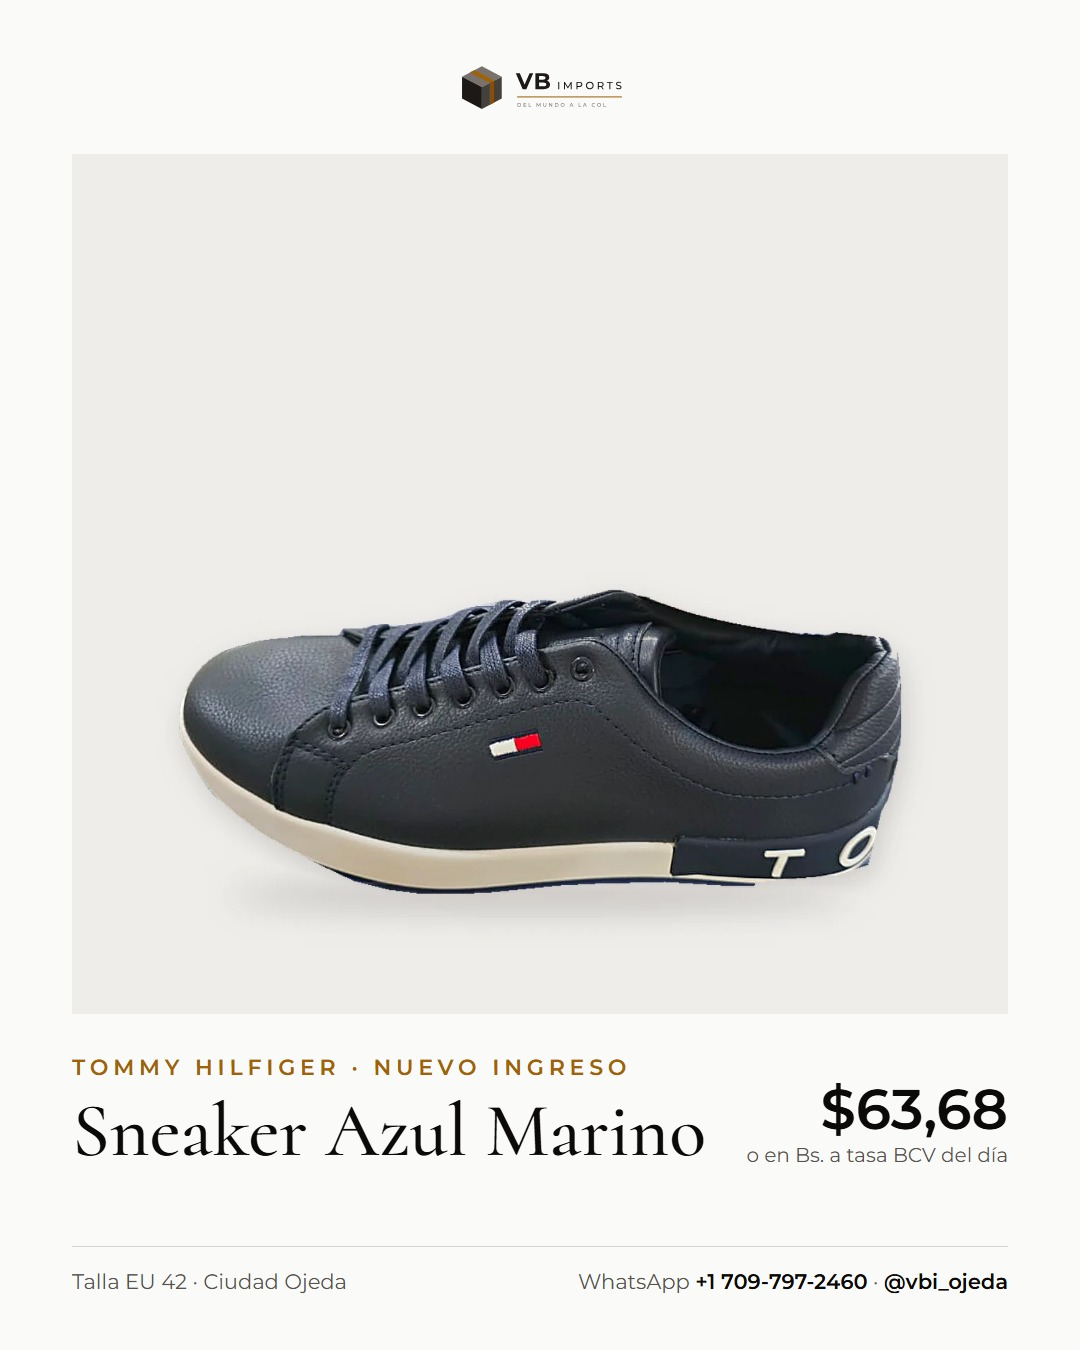
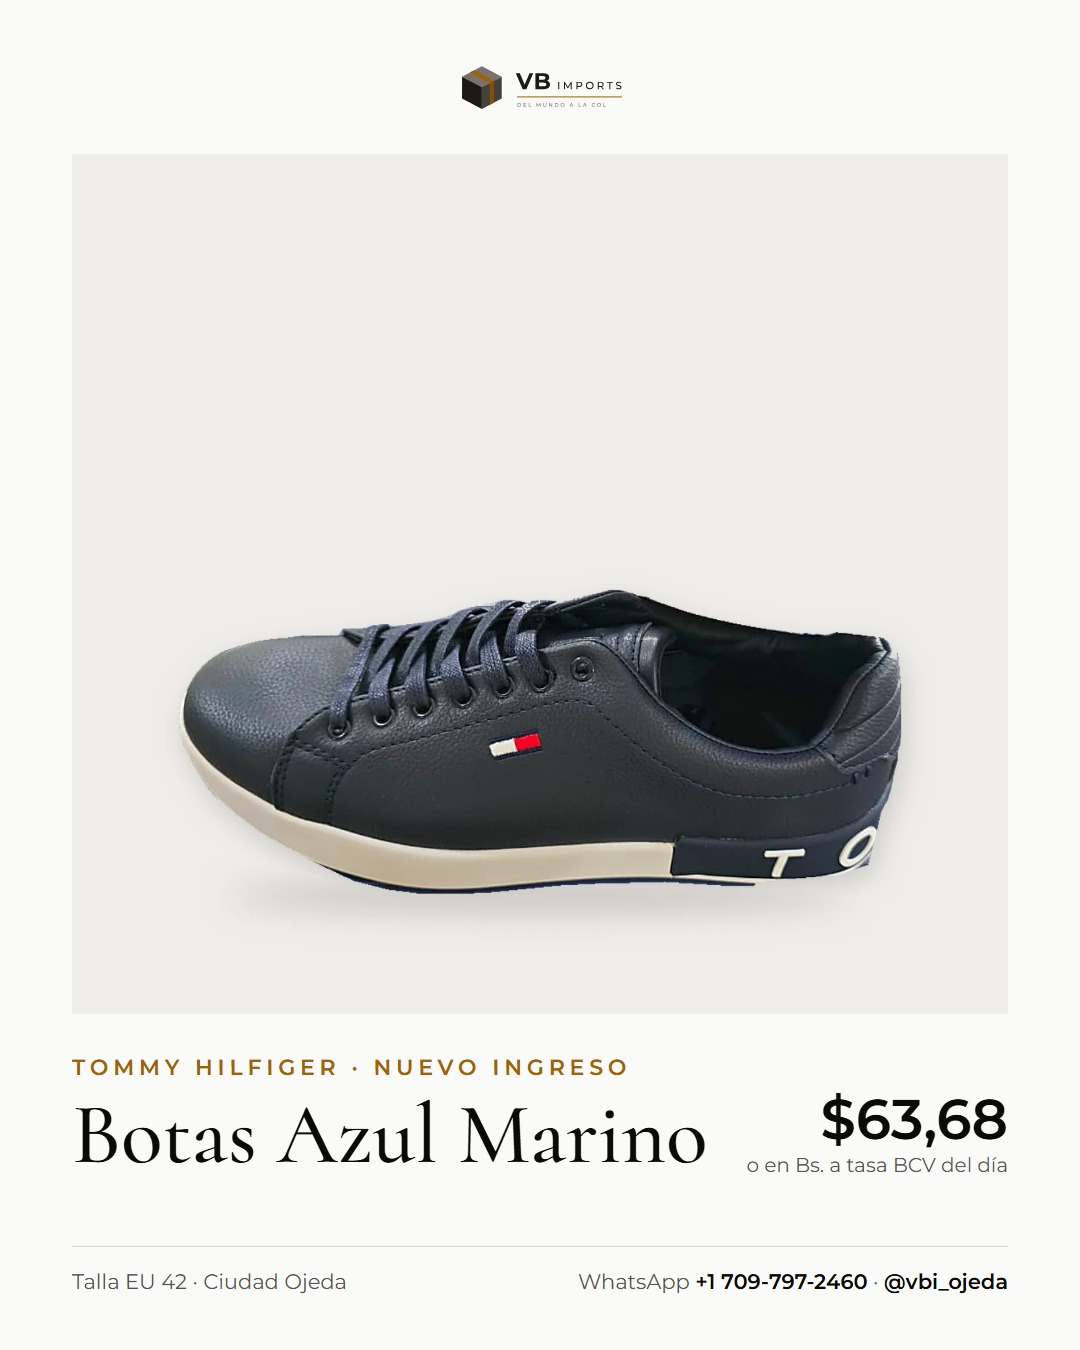
Publicaciones: "botas", sin métodos de pago y sin marca repetida
Los textos ya no muestran los métodos de pago, usan #BotasVenezuela #Botas y
no repiten la marca cuando el nombre la trae (Air Jordan 3). Las imágenes de
los 4 Tommy salen con sus nombres nuevos.

Changed region(s): [[0.0611, 0.8089, 0.6722, 0.8711], [0.7028, 0.8089, 0.9472, 0.8711]]

diff --git a/marketing/instagram/textos.md b/marketing/instagram/textos.md
@@ -13,11 +13,10 @@ $63,68 IVA incluido · o en Bs. a tasa BCV del día
 Un solo par, talla EU 42.
 
 Ya está en Ciudad Ojeda: te lo llevamos a domicilio o nos vemos en un punto de encuentro. Envíos a todo el país.
-Pagos: Pago Móvil, transferencia, dólares en efectivo, Zelle y Binance.
 
 Pídelo por WhatsApp al +1 709-797-2460 o desde el enlace de la biografía.
 
-#CiudadOjeda #Ojeda #Zulia #CostaOriental #Lagunillas #Cabimas #SneakersVenezuela #Sneakers #Casual
+#CiudadOjeda #Ojeda #Zulia #CostaOriental #Lagunillas #Cabimas #BotasVenezuela #Botas #Casual
 ```
 
 ## 02 · Jordan Spizike Low Gris y Negro
@@ -30,11 +29,10 @@ $87,37 IVA incluido · o en Bs. a tasa BCV del día
 Un solo par, talla EU 44.
 
 Ya está en Ciudad Ojeda: te lo llevamos a domicilio o nos vemos en un punto de encuentro. Envíos a todo el país.
-Pagos: Pago Móvil, transferencia, dólares en efectivo, Zelle y Binance.
 
 Pídelo por WhatsApp al +1 709-797-2460 o desde el enlace de la biografía.
 
-#CiudadOjeda #Ojeda #Zulia #CostaOriental #Lagunillas #Cabimas #SneakersVenezuela #Sneakers #Basketball
+#CiudadOjeda #Ojeda #Zulia #CostaOriental #Lagunillas #Cabimas #BotasVenezuela #Botas #Basketball
 ```
 
 ## 03 · Estilo On Cloudmonster Gris Claro
@@ -47,11 +45,10 @@ $74,26 IVA incluido · o en Bs. a tasa BCV del día
 Un solo par, talla EU 43.
 
 Ya está en Ciudad Ojeda: te lo llevamos a domicilio o nos vemos en un punto de encuentro. Envíos a todo el país.
-Pagos: Pago Móvil, transferencia, dólares en efectivo, Zelle y Binance.
 
 Pídelo por WhatsApp al +1 709-797-2460 o desde el enlace de la biografía.
 
-#CiudadOjeda #Ojeda #Zulia #CostaOriental #Lagunillas #Cabimas #SneakersVenezuela #Sneakers #Running
+#CiudadOjeda #Ojeda #Zulia #CostaOriental #Lagunillas #Cabimas #BotasVenezuela #Botas #Running
 ```
 
 ## 04 · Nike Air Max Dn Blanco
@@ -64,45 +61,42 @@ $84,90 IVA incluido · o en Bs. a tasa BCV del día
 Un solo par, talla EU 41.
 
 Ya está en Ciudad Ojeda: te lo llevamos a domicilio o nos vemos en un punto de encuentro. Envíos a todo el país.
-Pagos: Pago Móvil, transferencia, dólares en efectivo, Zelle y Binance.
 
 Pídelo por WhatsApp al +1 709-797-2460 o desde el enlace de la biografía.
 
-#CiudadOjeda #Ojeda #Zulia #CostaOriental #Lagunillas #Cabimas #SneakersVenezuela #Sneakers #Lifestyle
+#CiudadOjeda #Ojeda #Zulia #CostaOriental #Lagunillas #Cabimas #BotasVenezuela #Botas #Lifestyle
 ```
 
-## 05 · Tommy Hilfiger Sneaker Azul Marino
+## 05 · Tommy Hilfiger Botas Azul Marino
 
 Imagen: `publicaciones/05-tommy-azul-marino.jpg`
 
 ```
-Tommy Hilfiger Sneaker Azul Marino
+Tommy Hilfiger Botas Azul Marino
 $63,68 IVA incluido · o en Bs. a tasa BCV del día
 Un solo par, talla EU 42.
 
 Ya está en Ciudad Ojeda: te lo llevamos a domicilio o nos vemos en un punto de encuentro. Envíos a todo el país.
-Pagos: Pago Móvil, transferencia, dólares en efectivo, Zelle y Binance.
 
 Pídelo por WhatsApp al +1 709-797-2460 o desde el enlace de la biografía.
 
-#CiudadOjeda #Ojeda #Zulia #CostaOriental #Lagunillas #Cabimas #SneakersVenezuela #Sneakers #Lifestyle
+#CiudadOjeda #Ojeda #Zulia #CostaOriental #Lagunillas #Cabimas #BotasVenezuela #Botas #Lifestyle
 ```
 
-## 06 · Jordan Air Jordan 3 Blanco y Plata
+## 06 · Air Jordan 3 Blanco y Plata
 
 Imagen: `publicaciones/06-air-jordan-3-blanco-plata.jpg`
 
 ```
-Jordan Air Jordan 3 Blanco y Plata
+Air Jordan 3 Blanco y Plata
 $53,04 IVA incluido · o en Bs. a tasa BCV del día
 Un solo par, talla EU 42.
 
 Ya está en Ciudad Ojeda: te lo llevamos a domicilio o nos vemos en un punto de encuentro. Envíos a todo el país.
-Pagos: Pago Móvil, transferencia, dólares en efectivo, Zelle y Binance.
 
 Pídelo por WhatsApp al +1 709-797-2460 o desde el enlace de la biografía.
 
-#CiudadOjeda #Ojeda #Zulia #CostaOriental #Lagunillas #Cabimas #SneakersVenezuela #Sneakers #Basketball
+#CiudadOjeda #Ojeda #Zulia #CostaOriental #Lagunillas #Cabimas #BotasVenezuela #Botas #Basketball
 ```
 
 ## 07 · Regent Casual Gris
@@ -115,11 +109,10 @@ $63,68 IVA incluido · o en Bs. a tasa BCV del día
 Un solo par, talla EU 42.
 
 Ya está en Ciudad Ojeda: te lo llevamos a domicilio o nos vemos en un punto de encuentro. Envíos a todo el país.
-Pagos: Pago Móvil, transferencia, dólares en efectivo, Zelle y Binance.
 
 Pídelo por WhatsApp al +1 709-797-2460 o desde el enlace de la biografía.
 
-#CiudadOjeda #Ojeda #Zulia #CostaOriental #Lagunillas #Cabimas #SneakersVenezuela #Sneakers #Casual
+#CiudadOjeda #Ojeda #Zulia #CostaOriental #Lagunillas #Cabimas #BotasVenezuela #Botas #Casual
 ```
 
 ## 08 · Estilo On Cloudsurfer Blanco y Negro
@@ -132,11 +125,10 @@ $74,26 IVA incluido · o en Bs. a tasa BCV del día
 Un par en cada talla: EU 42 y 43.
 
 Ya está en Ciudad Ojeda: te lo llevamos a domicilio o nos vemos en un punto de encuentro. Envíos a todo el país.
-Pagos: Pago Móvil, transferencia, dólares en efectivo, Zelle y Binance.
 
 Pídelo por WhatsApp al +1 709-797-2460 o desde el enlace de la biografía.
 
-#CiudadOjeda #Ojeda #Zulia #CostaOriental #Lagunillas #Cabimas #SneakersVenezuela #Sneakers #Running
+#CiudadOjeda #Ojeda #Zulia #CostaOriental #Lagunillas #Cabimas #BotasVenezuela #Botas #Running
 ```
 
 ## 09 · Estilo Nike Metcon Blanco y Goma
@@ -149,77 +141,72 @@ $74,26 IVA incluido · o en Bs. a tasa BCV del día
 Un solo par, talla EU 43.
 
 Ya está en Ciudad Ojeda: te lo llevamos a domicilio o nos vemos en un punto de encuentro. Envíos a todo el país.
-Pagos: Pago Móvil, transferencia, dólares en efectivo, Zelle y Binance.
 
 Pídelo por WhatsApp al +1 709-797-2460 o desde el enlace de la biografía.
 
-#CiudadOjeda #Ojeda #Zulia #CostaOriental #Lagunillas #Cabimas #SneakersVenezuela #Sneakers #Training
+#CiudadOjeda #Ojeda #Zulia #CostaOriental #Lagunillas #Cabimas #BotasVenezuela #Botas #Training
 ```
 
-## 10 · Tommy Hilfiger Sneaker Gris
+## 10 · Tommy Hilfiger Botas Grises
 
 Imagen: `publicaciones/10-tommy-gris.jpg`
 
 ```
-Tommy Hilfiger Sneaker Gris
+Tommy Hilfiger Botas Grises
 $74,29 IVA incluido · o en Bs. a tasa BCV del día
 Un solo par, talla EU 42.
 
 Ya está en Ciudad Ojeda: te lo llevamos a domicilio o nos vemos en un punto de encuentro. Envíos a todo el país.
-Pagos: Pago Móvil, transferencia, dólares en efectivo, Zelle y Binance.
 
 Pídelo por WhatsApp al +1 709-797-2460 o desde el enlace de la biografía.
 
-#CiudadOjeda #Ojeda #Zulia #CostaOriental #Lagunillas #Cabimas #SneakersVenezuela #Sneakers #Lifestyle
+#CiudadOjeda #Ojeda #Zulia #CostaOriental #Lagunillas #Cabimas #BotasVenezuela #Botas #Lifestyle
 ```
 
-## 11 · Jordan Air Jordan 3 Negro
+## 11 · Air Jordan 3 Negro
 
 Imagen: `publicaciones/11-air-jordan-3-negro.jpg`
 
 ```
-Jordan Air Jordan 3 Negro
+Air Jordan 3 Negro
 $53,04 IVA incluido · o en Bs. a tasa BCV del día
 Un solo par, talla EU 43.
 
 Ya está en Ciudad Ojeda: te lo llevamos a domicilio o nos vemos en un punto de encuentro. Envíos a todo el país.
-Pagos: Pago Móvil, transferencia, dólares en efectivo, Zelle y Binance.
 
 Pídelo por WhatsApp al +1 709-797-2460 o desde el enlace de la biografía.
 
-#CiudadOjeda #Ojeda #Zulia #CostaOriental #Lagunillas #Cabimas #SneakersVenezuela #Sneakers #Basketball
+#CiudadOjeda #Ojeda #Zulia #CostaOriental #Lagunillas #Cabimas #BotasVenezuela #Botas #Basketball
 ```
 
-## 12 · Estilo Tommy Hilfiger Sneaker Blanco H
+## 12 · Estilo Tommy Hilfiger Botas Blancas H
 
 Imagen: `publicaciones/12-tommy-blanco-h.jpg`
 
 ```
-Estilo Tommy Hilfiger Sneaker Blanco H
+Estilo Tommy Hilfiger Botas Blancas H
 $63,68 IVA incluido · o en Bs. a tasa BCV del día
 Un solo par, talla EU 42.
 
 Ya está en Ciudad Ojeda: te lo llevamos a domicilio o nos vemos en un punto de encuentro. Envíos a todo el país.
-Pagos: Pago Móvil, transferencia, dólares en efectivo, Zelle y Binance.
 
 Pídelo por WhatsApp al +1 709-797-2460 o desde el enlace de la biografía.
 
-#CiudadOjeda #Ojeda #Zulia #CostaOriental #Lagunillas #Cabimas #SneakersVenezuela #Sneakers #Lifestyle
+#CiudadOjeda #Ojeda #Zulia #CostaOriental #Lagunillas #Cabimas #BotasVenezuela #Botas #Lifestyle
 ```
 
-## 13 · Estilo Tommy Hilfiger Sneaker Negro
+## 13 · Estilo Tommy Hilfiger Botas Negras
 
 Imagen: `publicaciones/13-tommy-negro.jpg`
 
 ```
-Estilo Tommy Hilfiger Sneaker Negro
+Estilo Tommy Hilfiger Botas Negras
 $63,68 IVA incluido · o en Bs. a tasa BCV del día
 Un par en cada talla: EU 42 y 43.
 
 Ya está en Ciudad Ojeda: te lo llevamos a domicilio o nos vemos en un punto de encuentro. Envíos a todo el país.
-Pagos: Pago Móvil, transferencia, dólares en efectivo, Zelle y Binance.
 
 Pídelo por WhatsApp al +1 709-797-2460 o desde el enlace de la biografía.
 
-#CiudadOjeda #Ojeda #Zulia #CostaOriental #Lagunillas #Cabimas #SneakersVenezuela #Sneakers #Lifestyle
+#CiudadOjeda #Ojeda #Zulia #CostaOriental #Lagunillas #Cabimas #BotasVenezuela #Botas #Lifestyle
 ```
